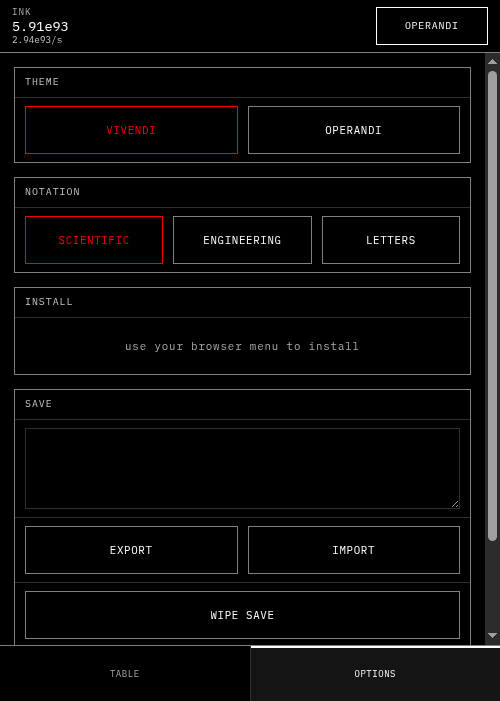
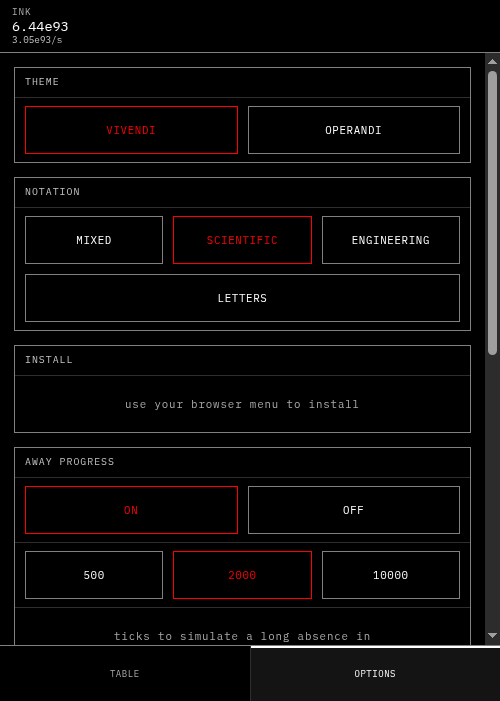
Mixed notation by default, and theme moves out of the top bar
Mixed is what Antimatter Dimensions defaults to, and it is the right call:
suffixes read better than exponents right up until the suffixes stop meaning
anything to anyone. It uses K through No below a decillion and switches to
scientific at 1e33, which is where AD switches too. Checked at the boundary:
9.99e32 prints 999.00No, 1e33 prints 1.00e33.

Four notations no longer fit one line at 390px, so rows wrap and the buttons
have a sensible basis. Three on the first line, LETTERS on the second.

The theme button leaves the top bar. OPTIONS already had a theme section that
does the same job better, with every registered theme shown rather than a
cycle, and the bar should be for numbers that change. Its styles are deleted
rather than left orphaned.

diff --git a/src/format.ts b/src/format.ts
@@ -2,9 +2,10 @@
 // module and a notation the player picks.
 import Decimal from 'break_infinity.js'
 
-export type NotationId = 'scientific' | 'engineering' | 'letters'
+export type NotationId = 'mixed' | 'scientific' | 'engineering' | 'letters'
 
 export const NOTATIONS: { id: NotationId; label: string }[] = [
+  { id: 'mixed', label: 'MIXED' },
   { id: 'scientific', label: 'SCIENTIFIC' },
   { id: 'engineering', label: 'ENGINEERING' },
   { id: 'letters', label: 'LETTERS' },
@@ -43,10 +44,22 @@ function letters(d: Decimal, places: number): string {
 }
 
 /**
+ * Antimatter Dimensions' default, and the one here. Suffixes read better than
+ * exponents right up until the suffixes stop meaning anything, so it uses them
+ * below a decillion and scientific at or above it. AD switches at the same
+ * place, one past nonillion.
+ */
+const MIXED_SWITCH_EXPONENT = 33
+
+function mixed(d: Decimal, places: number): string {
+  return d.exponent < MIXED_SWITCH_EXPONENT ? letters(d, places) : scientific(d, places)
+}
+
+/**
  * Small numbers print plainly, because "3.00e0 ink" is nobody's idea of
  * readable. Everything past a thousand goes to the chosen notation.
  */
-export function format(value: Decimal, notation: NotationId = 'scientific', places = 2): string {
+export function format(value: Decimal, notation: NotationId = 'mixed', places = 2): string {
   if (!Number.isFinite(value.mantissa) || !Number.isFinite(value.exponent)) return 'Infinity'
   if (value.lt(0)) return `-${format(value.neg(), notation, places)}`
   if (value.lt(1000)) {
@@ -60,13 +73,15 @@ export function format(value: Decimal, notation: NotationId = 'scientific', plac
       return engineering(value, places)
     case 'letters':
       return letters(value, places)
-    default:
+    case 'scientific':
       return scientific(value, places)
+    default:
+      return mixed(value, places)
   }
 }
 
 /** Counts of things you own. Always whole, never in scientific until it has to be. */
-export function formatWhole(value: Decimal, notation: NotationId = 'scientific'): string {
+export function formatWhole(value: Decimal, notation: NotationId = 'mixed'): string {
   if (value.lt(1e6)) return Math.floor(value.toNumber()).toLocaleString('en-US')
   return format(value, notation, 2)
 }

diff --git a/src/ui/shell.ts b/src/ui/shell.ts
@@ -1,7 +1,6 @@
 import Decimal from 'break_infinity.js'
 import { format } from '../format'
 import type { GameState, TabId } from '../state'
-import { currentTheme, nextTheme, themes } from './theme'
 
 /** What a pane is allowed to do to the game. Implemented in main.ts. */
 export interface Actions {
@@ -77,7 +76,6 @@ export class Shell {
   private actionInner = el('div', 'action-bar-inner')
   private inkOut = new Readout('INK')
   private pointsOut = new Readout('POINTS')
-  private themeBtn = el('button', 'theme-toggle')
   private active: TabId = 'table'
 
   constructor(
@@ -90,14 +88,10 @@ export class Shell {
 
     const bar = el('div', 'bar')
     const barInner = el('div', 'bar-inner')
+    // Readouts only. Theme lives in OPTIONS, which is the only place it needs
+    // to be, and the bar is for numbers that change.
     barInner.append(this.inkOut.root, this.pointsOut.root, el('div', 'bar-spacer'))
     bar.appendChild(barInner)
-    this.themeBtn.type = 'button'
-    this.themeBtn.addEventListener('click', () => {
-      nextTheme()
-      this.paintThemeButton()
-    })
-    barInner.appendChild(this.themeBtn)
 
     const tabs = el('nav', 'tabs')
     tabs.setAttribute('role', 'tablist')
@@ -133,17 +127,7 @@ export class Shell {
     for (const pane of this.paneEls.values()) this.root.appendChild(pane)
     this.root.append(this.actionBar, tabs)
 
-    this.paintThemeButton()
     this.select(initial)
-  }
-
-  /** The button names the theme it will switch to, and cycles past two. */
-  private paintThemeButton(): void {
-    const all = themes()
-    const i = all.findIndex((t) => t.id === currentTheme().id)
-    const next = all[(i + 1) % all.length]
-    this.themeBtn.textContent = next.label
-    this.themeBtn.setAttribute('aria-label', `Switch to the ${next.label} theme`)
   }
 
   select(id: TabId): void {

diff --git a/src/styles/game.css b/src/styles/game.css
@@ -62,23 +62,6 @@
   min-width: 8px;
 }
 
-.theme-toggle {
-  border: 1px solid var(--fg);
-  padding: 7px 10px;
-  font-size: 0.66rem;
-  letter-spacing: 0.08em;
-  flex-shrink: 0;
-  /* Fixed width so VIVENDI and OPERANDI cannot resize the bar between them. */
-  min-width: 7.5rem;
-  min-height: 38px;
-  text-align: center;
-}
-
-.theme-toggle:hover {
-  background: var(--fill);
-  text-shadow: 0 0 6px var(--glow);
-}
-
 /* -- tabs, bottom on mobile and a left nav on desktop -------------------- */
 
 .tabs {
@@ -294,6 +277,7 @@
 
 .action {
   display: block;
+  flex: 1 1 7rem;
   width: 100%;
   min-height: 48px;
   padding: 10px;
@@ -306,6 +290,8 @@
 .row {
   display: flex;
   align-items: center;
+  /* Four notation buttons do not fit one line at 390px. */
+  flex-wrap: wrap;
   gap: 10px;
   padding: 8px 10px;
   border-bottom: 1px solid var(--border-faint);

diff --git a/src/state.ts b/src/state.ts
@@ -65,7 +65,7 @@ export function newGame(now: number): GameState {
     wagers: 0,
     tarot: {},
     options: {
-      notation: 'scientific',
+      notation: 'mixed',
       tab: 'table',
       offline: true,
       offlineTicks: OFFLINE_TICKS_DEFAULT,
